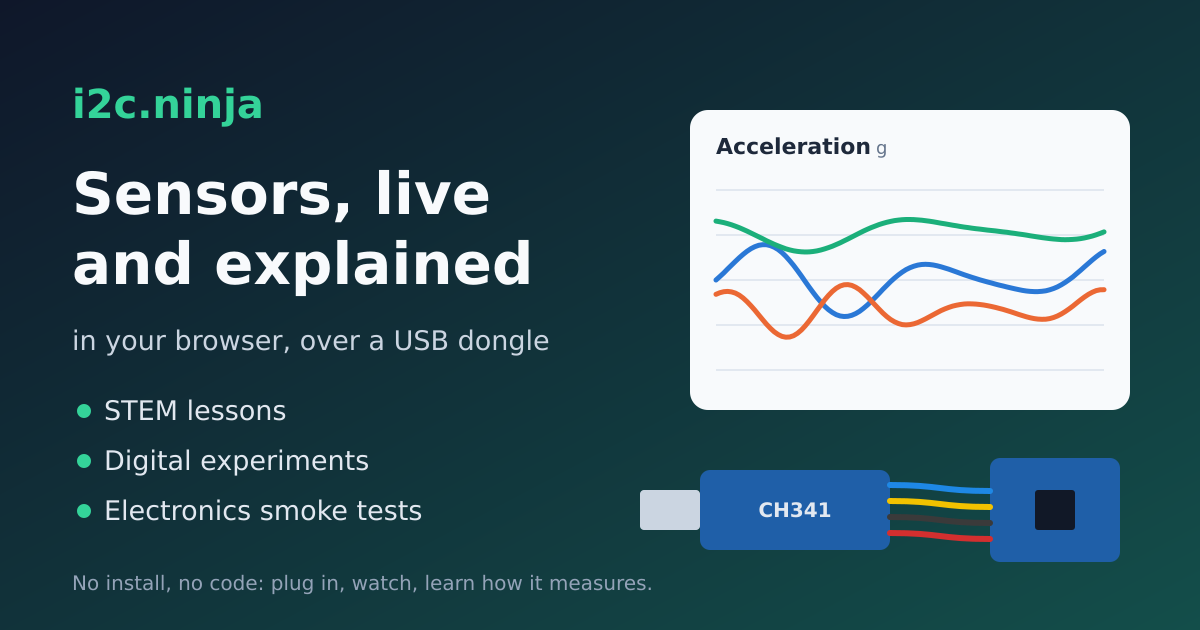
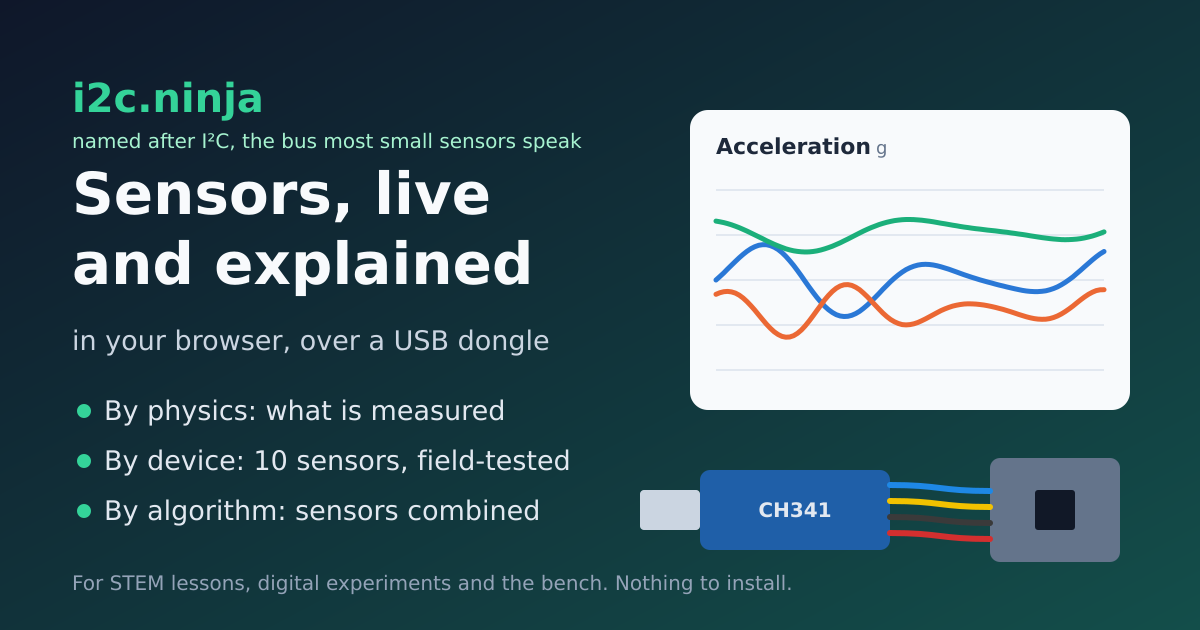
Link previews: each blog post its own (its comic and title, 1200x630, og:type article, its date); the site card refreshed (the I2C line, the three ways in, field-tested, the slate board); two comic bubbles widened

diff --git a/src/lib/pages.js b/src/lib/pages.js
@@ -48,7 +48,8 @@ export const PAGES = [
     title: 'Blog: how i2c.ninja and atiic come about',
     description: 'Stories behind i2c.ninja and its I2C drivers, atiic: the sensors, the ideas and the questions on the way.',
   },
-  ...POSTS.map((p) => ({ path: `/blog/${p.slug}`, title: `${p.title} · blog`, description: p.summary })),
+  // a post: its own preview (its comic, public/blog/og/<slug>.png, 1200 x 630), as an article
+  ...POSTS.map((p) => ({ path: `/blog/${p.slug}`, title: `${p.title} · blog`, description: p.summary, type: 'article', published: p.date, image: p.banner ? `/blog/og/${p.slug}.png` : null, imageAlt: p.banner?.alt })),
   {
     path: '/devices',
     title: 'Devices: I2C sensors live in the browser',
